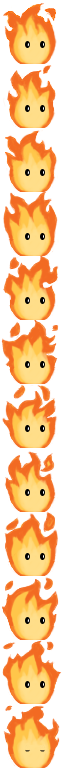
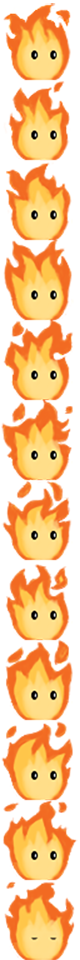
fixed jumping

diff --git a/Aiden/core/src/edu/cornell/gdiac/physics/character/AidenModel.java b/Aiden/core/src/edu/cornell/gdiac/physics/character/AidenModel.java
@@ -287,9 +287,9 @@ public class AidenModel extends CharacterModel {
 			subFuel(dt);
 		}
 		super.update(dt);
-		ratio = fuel / START_FUEL;
+		ratio = fuel / MAX_FUEL;
 		ratio = Math.max(0.8f, ratio);
-		ratio = Math.min(1.2f, ratio);
+		ratio = Math.min(1.0f, ratio);
 		this.setDimension(iWidth * ratio, iHeight * ratio);
 		this.resize(getWidth(), getHeight());
 		this.resizeFixture(ratio);
@@ -327,6 +327,7 @@ public class AidenModel extends CharacterModel {
 			return;
 		}
 		else {
+			c.r = 1 - Math.abs(1 - ratio);
 			c.g = 1 - Math.abs(1 - ratio);
 			c.b = c.g;
 			animate(canvas, c, ratio);

diff --git a/Aiden/core/src/edu/cornell/gdiac/physics/character/CharacterModel.java b/Aiden/core/src/edu/cornell/gdiac/physics/character/CharacterModel.java
@@ -298,10 +298,10 @@ public class CharacterModel extends CapsuleObstacle {
 	}
 	
 	public void resizeFixture(float ratio){
-		Vector2 sensorCenter = new Vector2(0, -getHeight() / 2 + SENSOR_HEIGHT/2);
-		System.out.println(getHeight());
-		sensorShape = new PolygonShape();
-		sensorShape.setAsBox(getWidth() / 2.0f, SENSOR_HEIGHT, sensorCenter, 0.0f);
+//		Vector2 sensorCenter = new Vector2(0, -getHeight() / 2);
+//		System.out.println(getHeight());
+//		sensorShape = new PolygonShape();
+//		sensorShape.setAsBox(getWidth() / 2.0f, SENSOR_HEIGHT, sensorCenter, 0.0f);
 	}
 
 

diff --git a/Aiden/core/src/edu/cornell/gdiac/physics/AidenController.java b/Aiden/core/src/edu/cornell/gdiac/physics/AidenController.java
@@ -228,7 +228,7 @@ public class AidenController extends WorldController
 			{ 21f, 4f, 23f, 6f, 23f, 8f, 25f, 4f, 25f, 6f, 25f, 10f } };
 
 	/** fuel blocks */
-	private static final float[][] FUELS = { { 26f, 9f }, { 13f, 8f } };
+	private static final float[][] FUELS = { { 26f, 9f, 2f, 2f }, { 13f, 8f }};
 
 	private static final float[][] LADDER = { { 11f, 10f },
 			{ 5f, 8f, 2f, 3f } };
